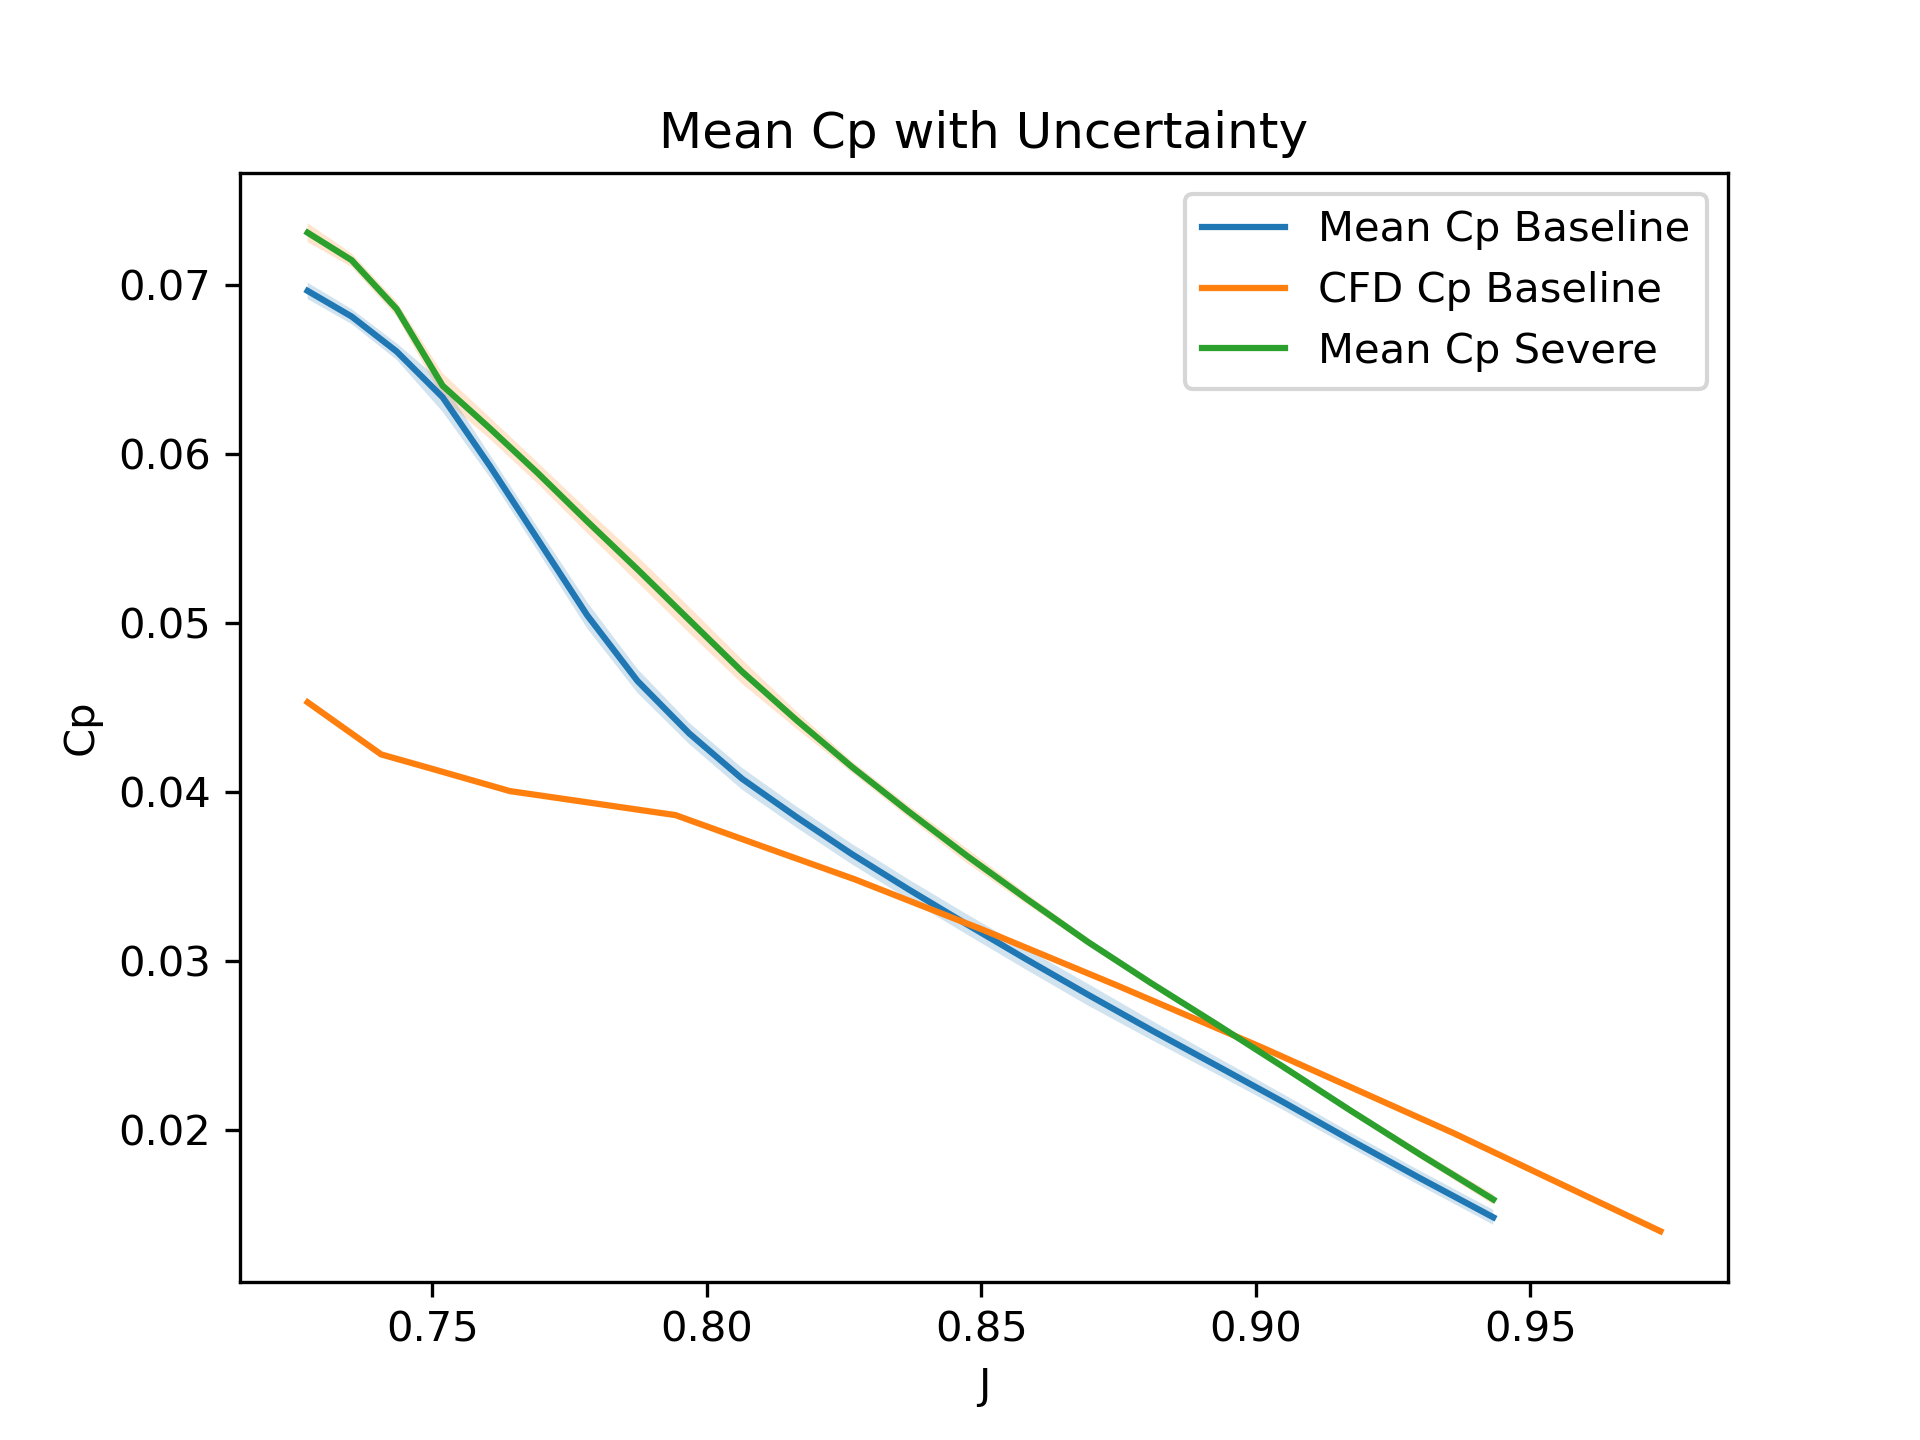
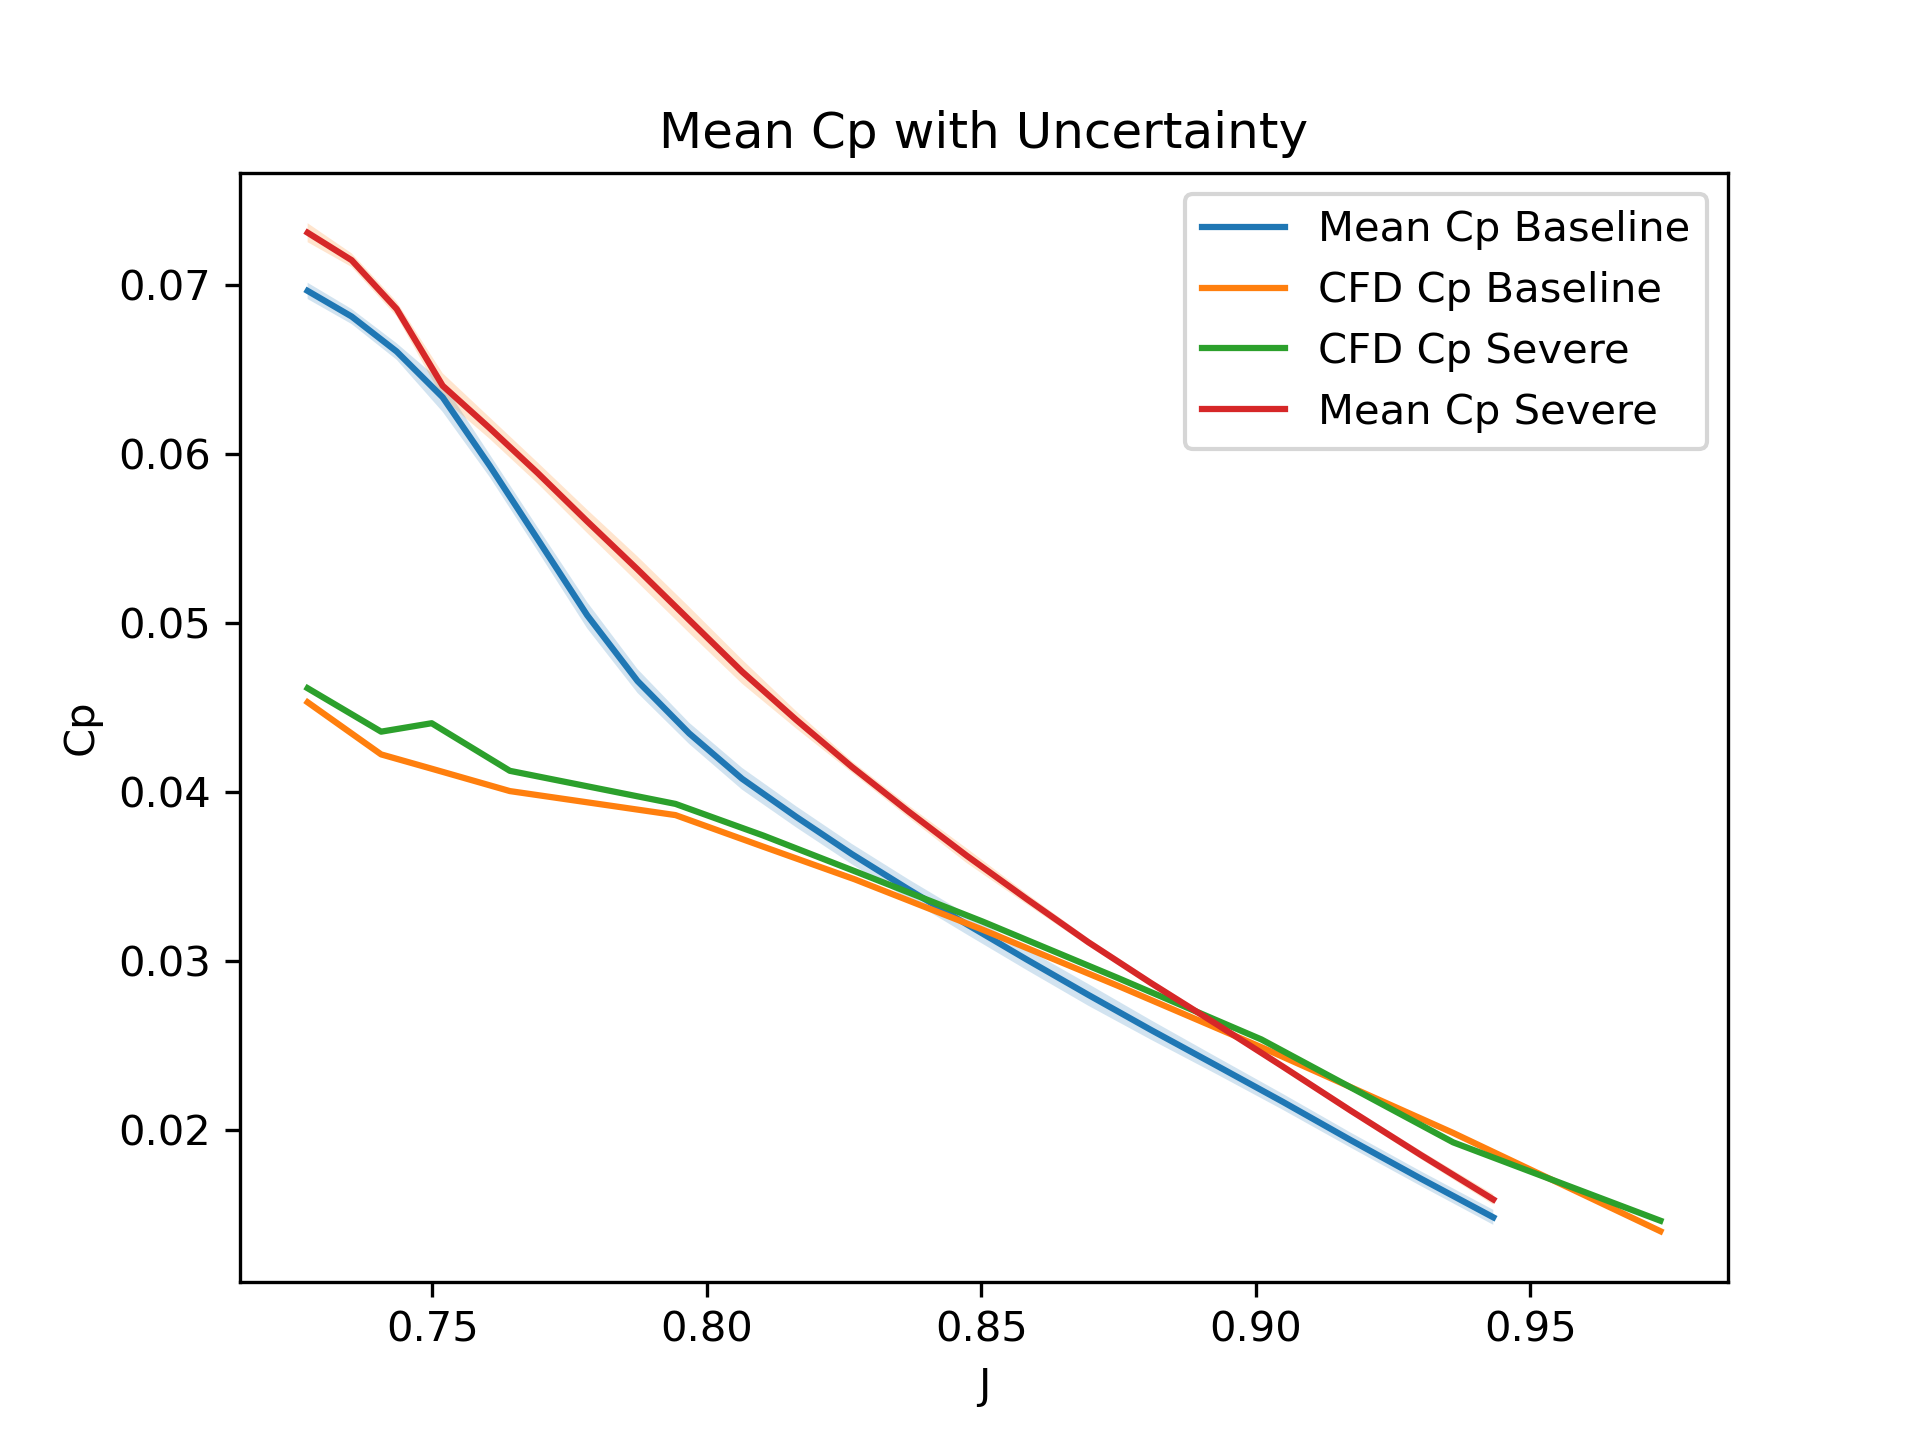
Bytte till taylor och tog bort ett par sensor uncertenties

diff --git a/PostProcess/MainScript.py b/PostProcess/MainScript.py
@@ -25,6 +25,19 @@ df_baseline.columns = [
 df_baseline = df_baseline.drop(columns=[col for col in df_baseline.columns if col.startswith('RPM_')])
 
 
+# Read in CFD data of severe to a pandas dataframe
+df_severe= pd.read_csv('../CFD/cfd_data_severe_sweep.csv')
+df_severe.head()
+
+df_severe.columns = [
+    "RPM", "Cp", "RPM_eta", "Eta", 
+    "RPM_thrust", "Thrust", 
+    "RPM_power", "Power", 
+    "RPM_ct", "Ct", "RPM_J", "J", 
+    "RPM_torque", "Torque"
+]
+df_severe = df_severe.drop(columns=[col for col in df_severe.columns if col.startswith('RPM_')])
+
 # Close any open plots
 plt.close('all')
 
@@ -273,6 +286,7 @@ plt.figure(110)
 J_range = 23 / ((rpm_range / 60) * Dia)  # Advance ratio
 plt.plot(J_range, mean_thrust_baseline, label='Mean Thrust Baseline')
 plt.plot(df_baseline['J'], df_baseline['Thrust'] *2 , label='CFD Thrust Baseline')
+plt.plot(df_severe['J'], df_severe['Thrust'] *2, label='CFD Thrust Severe')
 plt.fill_between(J_range, mean_thrust_baseline - std_thrust_baseline, mean_thrust_baseline + std_thrust_baseline, alpha=0.2)
 plt.plot(J_range, mean_thrust_severe, label='Mean Thrust Severe')
 plt.fill_between(J_range, mean_thrust_severe - std_thrust_severe, mean_thrust_severe + std_thrust_severe, alpha=0.2)
@@ -331,6 +345,7 @@ J_range = 23 / ((rpm_range / 60) * Dia)  # Advance ratio
 plt.figure(110)
 plt.plot(J_range, mean_torque_baseline, label='Mean Torque Baseline')
 plt.plot(df_baseline['J'], df_baseline['Torque'], label='CFD Torque Baseline')
+plt.plot(df_severe['J'], df_severe['Torque'], label='CFD Torque Severe')
 plt.fill_between(J_range, mean_torque_baseline - std_torque_baseline, mean_torque_baseline + std_torque_baseline, alpha=0.2)
 plt.plot(J_range, mean_torque_severe, label='Mean Torque Severe')
 plt.fill_between(J_range, mean_torque_severe - std_torque_severe, mean_torque_severe + std_torque_severe, alpha=0.2)
@@ -348,16 +363,6 @@ mean_rpm_severe = np.mean([np.interp(rpm_range, rpm[range_start:range_end], rpm[
 
 std_rpm_baseline = np.std([np.interp(rpm_range, rpm[range_start:range_end], rpm[range_start:range_end]) for rpm in all_rpm_baseline], axis=0)
 std_rpm_severe = np.std([np.interp(rpm_range, rpm[range_start:range_end], rpm[range_start:range_end]) for rpm in all_rpm_severe], axis=0)
-
-# Plot mean baseline rpm with uncertainty
-plt.figure(108)
-plt.plot(rpm_range, mean_rpm_baseline, label='Mean RPM Baseline')
-plt.fill_between(rpm_range, mean_rpm_baseline - std_rpm_baseline, mean_rpm_baseline + std_rpm_baseline, alpha=0.2)
-plt.xlabel('RPM')
-plt.ylabel('RPM')
-plt.legend()
-plt.title('Baseline Mean RPM with Uncertainty')
-plt.show()
 
 
 
@@ -405,6 +410,7 @@ std_eta_severe = np.std(interpolated_eta_severe, axis=0)
 plt.figure(110)
 plt.plot(J_range, mean_eta_baseline, label='Mean Eta Baseline')
 plt.plot(df_baseline['J'], df_baseline['Eta'], label='CFD Eta Baseline')
+plt.plot(df_severe['J'], df_severe['Eta'], label='CFD Eta Severe')
 plt.fill_between(J_range, mean_eta_baseline - std_eta_baseline, mean_eta_baseline + std_eta_baseline, alpha=0.2)
 plt.plot(J_range, mean_eta_severe, label='Mean Eta Severe')
 plt.fill_between(J_range, mean_eta_severe - std_eta_severe, mean_eta_severe + std_eta_severe, alpha=0.2)
@@ -461,6 +467,7 @@ std_Ct_severe = np.std(interpolated_Ct_severe, axis=0)
 plt.figure(110)
 plt.plot(J_range, mean_Ct_baseline, label='Mean Ct Baseline')
 plt.plot(df_baseline['J'], df_baseline['Ct'], label='CFD Ct Baseline')
+plt.plot(df_severe['J'], df_severe['Ct'], label='CFD Ct Severe')
 plt.fill_between(J_range, mean_Ct_baseline - std_Ct_baseline, mean_Ct_baseline + std_Ct_baseline, alpha=0.2)
 plt.plot(J_range, mean_Ct_severe, label='Mean Ct Severe')
 plt.fill_between(J_range, mean_Ct_severe - std_Ct_severe, mean_Ct_severe + std_Ct_severe, alpha=0.2)
@@ -517,6 +524,7 @@ std_Cp_severe = np.std(interpolated_Cp_severe, axis=0)
 plt.figure(110)
 plt.plot(J_range, mean_Cp_baseline, label='Mean Cp Baseline')
 plt.plot(df_baseline['J'], df_baseline['Cp'], label='CFD Cp Baseline')
+plt.plot(df_severe['J'], df_severe['Cp'], label='CFD Cp Severe')
 plt.fill_between(J_range, mean_Cp_baseline - std_Cp_baseline, mean_Cp_baseline + std_Cp_baseline, alpha=0.2)
 plt.plot(J_range, mean_Cp_severe, label='Mean Cp Severe')
 plt.fill_between(J_range, mean_Cp_severe - std_Cp_severe, mean_Cp_severe + std_Cp_severe, alpha=0.2)
@@ -549,20 +557,13 @@ Eta_errors = []
 # Thrust and torque sensor uncertainties
 full_scale_thrust = 9.81  # Full scale in N (1 kg capacity = 9.81 N)
 thrust_uncertainty = np.sqrt(
-    (0.05 / 100 * full_scale_thrust)**2 +  # Non-linearity
-    (0.05 / 100 * full_scale_thrust)**2 +  # Hysteresis
-    (0.03 / 100 * full_scale_thrust)**2 +  # Repeatability
-    (1 / 100 * full_scale_thrust)**2 +     # Zero balance
-    (0.05 / 100 * full_scale_thrust)**2    # Creep
+    (0.05 / 100 * full_scale_thrust)**2   # Non-linearity
+
 )
 
 full_scale_torque = 1 * 9.81 * 0.019  # 1 kg capacity at 19 mm arm 
 torque_uncertainty = np.sqrt(
-    (0.05 / 100 * full_scale_torque)**2 +  # Non-linearity
-    (0.03 / 100 * full_scale_torque)**2 +  # Reproducibility
-    (0.03 / 100 * full_scale_torque)**2 +  # Hysteresis
-    (0.1 / 100 * full_scale_torque)**2 +   # Zero-point comparison
-    (0.1 / 100 * full_scale_torque)**2     # Creep
+    (0.05 / 100 * full_scale_torque)**2   # Non-linearity
 )
 
 for i in range(len(mean_rpm_baseline)):
@@ -593,9 +594,9 @@ for i in range(len(mean_rpm_baseline)):
     }
 
     # Compute uncertainties
-    CT_uncertainties, CT_sum_uncert = MonteCarlo_error_propagation(CT_Expr, dict_variables_input,100)
-    CP_uncertainties, CP_sum_uncert = MonteCarlo_error_propagation(CP_Expr, dict_variables_input,100)
-    Eta_uncertainties, Eta_sum_uncert = MonteCarlo_error_propagation(Eta_Expr, dict_variables_input,100)
+    CT_uncertainties, CT_sum_uncert,_,_ = Taylor_error_propagation(CT_Expr, dict_variables_input)
+    CP_uncertainties, CP_sum_uncert,_,_ = Taylor_error_propagation(CP_Expr, dict_variables_input)
+    Eta_uncertainties, Eta_sum_uncert,_,_ = Taylor_error_propagation(Eta_Expr, dict_variables_input)
 
     
     # Append results
@@ -661,4 +662,118 @@ plt.show()
 '''
 # %%
 
+# %%
+# Placeholder for computed values and errors
+CT_errors_severe = []
+CP_errors_severe = []
+Eta_errors_severe = []
 
+# Compute errors for severe data
+
+# Thrust and torque sensor uncertainties
+full_scale_thrust = 9.81  # Full scale in N (1 kg capacity = 9.81 N)
+thrust_uncertainty = np.sqrt(
+    (0.05 / 100 * full_scale_thrust)**2  # Non-linearity
+    )
+
+full_scale_torque = 1 * 9.81 * 0.019  # 1 kg capacity at 19 mm arm 
+
+torque_uncertainty = np.sqrt(
+    (0.05 / 100 * full_scale_torque)**2   # Non-linearity
+    )
+
+for i in range(len(mean_rpm_severe)):
+    # Sensor uncertainties
+    uncertainties = {
+        'T': thrust_uncertainty,  # Thrust uncertainty (N) std_thrust_severe[i]
+        'rho': 0,                 # Air density uncertainty
+        'n': 10/60 ,              # RPS uncertainty std_rpm_severe[i]/60
+        'd': 0.0003,              # Diameter uncertainty (m)
+        'Q': torque_uncertainty,  # Torque uncertainty (Nm)
+        'omega': 0,               # Angular velocity uncertainty (rad/s)
+        'V': 0.1                  # Air velocity uncertainty (m/s)
+    }
+
+    T_value = mean_thrust_severe[i]
+    Q_value = mean_torque_severe[i]
+    n_value = mean_rpm_severe[i] / 60
+    rho_value = 1.188
+    omega_value = 2 * np.pi * n_value
+
+    # Define variable inputs for the Taylor propagation
+    dict_variables_input = {
+        'Variables': [T, rho, n, d, Q, omega, V],
+        'Values': [T_value, rho_value, n_value, Dia, Q_value, omega_value, 23],
+        'Error_type': ['abs', 'abs', 'abs', 'abs', 'abs', 'abs', 'abs'],
+        'Error': [uncertainties['T'], uncertainties['rho'], uncertainties['n'],
+                  uncertainties['d'], uncertainties['Q'], uncertainties['omega'], uncertainties['V']]
+    }
+
+    # Compute uncertainties
+    CT_uncertainties, CT_sum_uncert,_,_ = Taylor_error_propagation(CT_Expr, dict_variables_input)
+    CP_uncertainties, CP_sum_uncert,_,_ = Taylor_error_propagation(CP_Expr, dict_variables_input)
+    Eta_uncertainties, Eta_sum_uncert,_,_ = Taylor_error_propagation(Eta_Expr, dict_variables_input)
+
+    
+    # Append results
+    CT_errors_severe.append(CT_sum_uncert)
+    CP_errors_severe.append(CP_sum_uncert)
+    Eta_errors_severe.append(Eta_sum_uncert)
+
+# %%
+
+# Plot CT, CP, and Eta with error bars over J for severe data
+plt.figure(111)
+fig, axs = plt.subplots(3, 1, figsize=(10, 15))
+
+# Plot CT
+axs[0].errorbar(J_range, mean_Ct_severe, yerr=CT_errors_severe, fmt='o', capsize=5, label='C_T')
+axs[0].fill_between(J_range, mean_Ct_severe - std_Ct_severe, mean_Ct_severe + std_Ct_severe, alpha=0.2)
+axs[0].set_title('Thrust Coefficient (C_T) vs J', fontsize=14)
+axs[0].set_xlabel('J', fontsize=12)
+axs[0].set_ylabel('C_T', fontsize=12)
+axs[0].grid(True)
+axs[0].legend()
+
+# Plot CP
+axs[1].errorbar(J_range, mean_Cp_severe, yerr=CP_errors_severe, fmt='o', capsize=5, label='C_P', color='red')
+axs[1].set_title('Power Coefficient (C_P) vs J', fontsize=14)
+axs[1].fill_between(J_range, mean_Cp_severe - std_Cp_severe, mean_Cp_severe + std_Cp_severe, alpha=0.2)
+axs[1].set_xlabel('J', fontsize=12)
+axs[1].set_ylabel('C_P', fontsize=12)
+axs[1].grid(True)
+axs[1].legend()
+
+# Plot Eta
+axs[2].errorbar(J_range, mean_eta_severe, yerr=Eta_errors_severe, fmt='o', capsize=5, label='Eta', color='green')
+axs[2].set_title('Efficiency (Eta) vs J', fontsize=14)
+axs[2].fill_between(J_range, mean_eta_severe - std_eta_severe, mean_eta_severe + std_eta_severe, alpha=0.2)
+axs[2].set_xlabel('J', fontsize=12)
+axs[2].set_ylabel('Eta', fontsize=12)
+axs[2].set_ylim(0, 1)
+axs[2].grid(True)
+axs[2].legend()
+
+plt.tight_layout()
+plt.show()
+
+
+# %%
+
+# Plot Eta with error bars over J for baseline and severe data in same figure
+plt.figure(113)
+fig, axs = plt.subplots(1, 1, figsize=(10, 5))
+
+# Plot Eta
+axs.errorbar(J_range, mean_eta_baseline, yerr=Eta_errors, fmt='o', capsize=5, label='Eta Baseline', color='green')
+
+axs.errorbar(J_range, mean_eta_severe, yerr=Eta_errors_severe, fmt='o', capsize=5, label='Eta Severe', color='red')
+
+axs.set_title('Efficiency (Eta) vs J', fontsize=14)
+axs.set_xlabel('J', fontsize=12)
+axs.set_ylabel('Eta', fontsize=12)
+axs.set_ylim(0, 1)
+axs.grid(True)
+axs.legend()
+
+# %%
